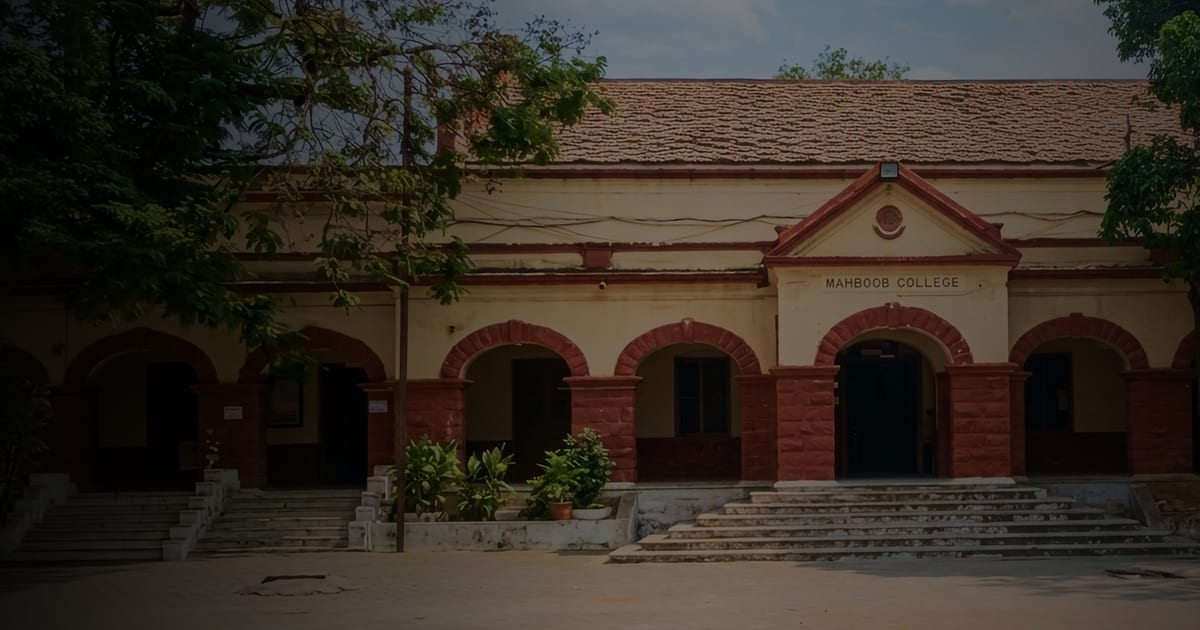
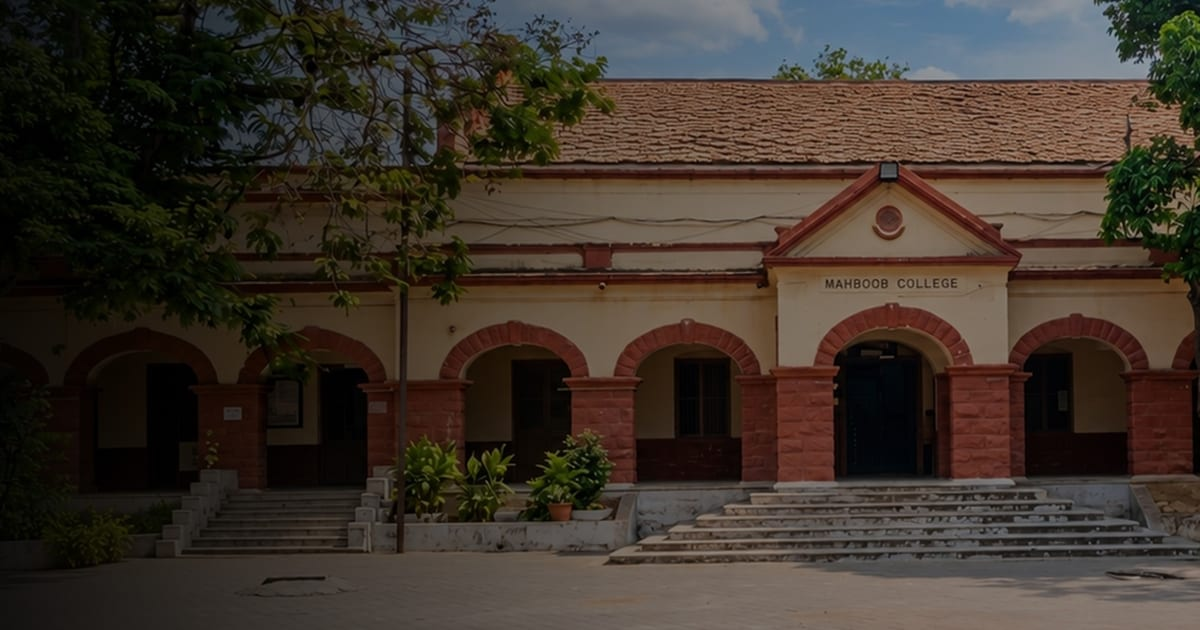
Replace hero background image
- New campus photo (hero-campus.jpg) used for the hero, registration section and
  page banners; new file name so cached copies of the old image are not reused
- Regenerate the 1200x630 share image from the new photo

diff --git a/src/components/home/Hero.tsx b/src/components/home/Hero.tsx
@@ -10,7 +10,7 @@ export default function Hero() {
         {/* Photograph: shown in full above the text on mobile (1920x816), full-bleed background from lg up */}
         <div className="relative w-full aspect-[1920/816] lg:aspect-auto lg:absolute lg:inset-0 z-0">
           <Image
-            src="/hero-bg.jpg"
+            src="/hero-campus.jpg"
             alt="Mahbub College Historic Campus"
             fill
             priority

diff --git a/src/components/home/ContactForm.tsx b/src/components/home/ContactForm.tsx
@@ -289,7 +289,7 @@ export default function ContactForm() {
       {/* Full-bleed Banner Background Image from Figma (matching hero section) */}
       <div className="absolute inset-0 z-0">
         <Image
-          src="/hero-bg.jpg"
+          src="/hero-campus.jpg"
           alt="Mahbub College Historic Campus"
           fill
           quality={95}

diff --git a/src/components/common/PageHeroBanner.tsx b/src/components/common/PageHeroBanner.tsx
@@ -17,7 +17,7 @@ export default function PageHeroBanner({
       {/* Exact Home Page Background Photograph */}
       <div className="absolute inset-0 z-0">
         <Image
-          src="/hero-bg.jpg"
+          src="/hero-campus.jpg"
           alt="Mahbub College Historic Campus"
           fill
           priority
